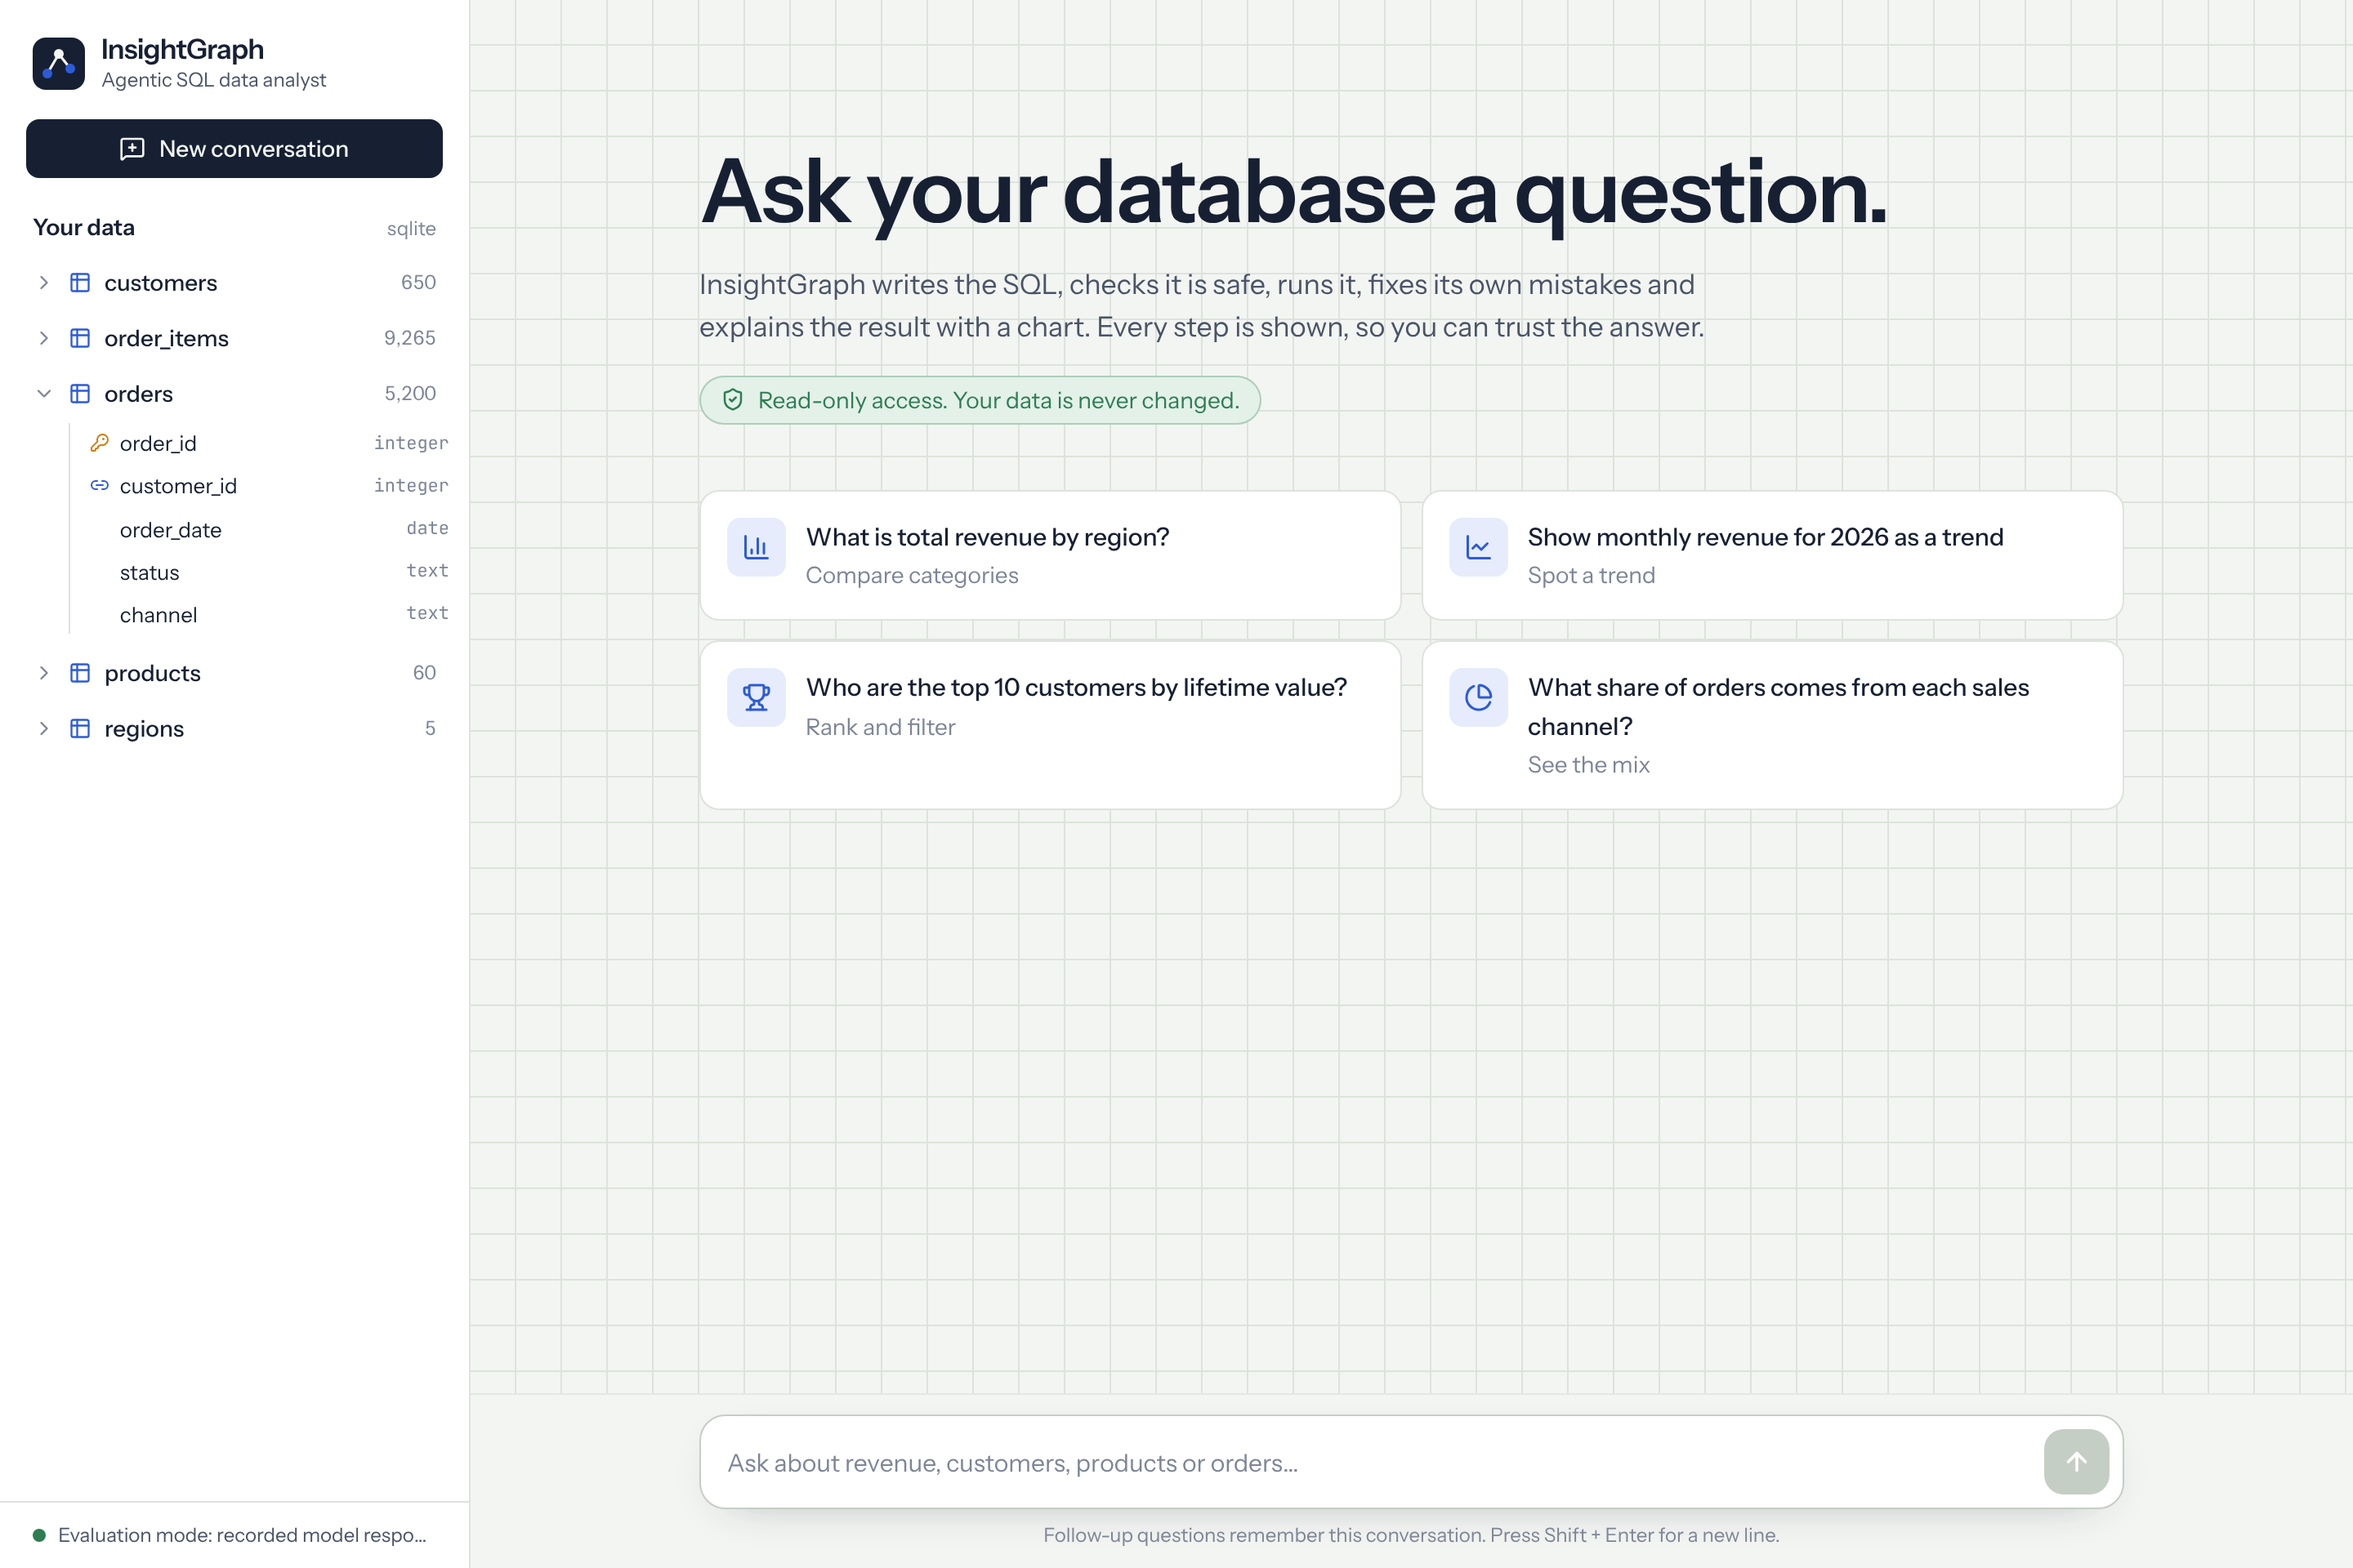
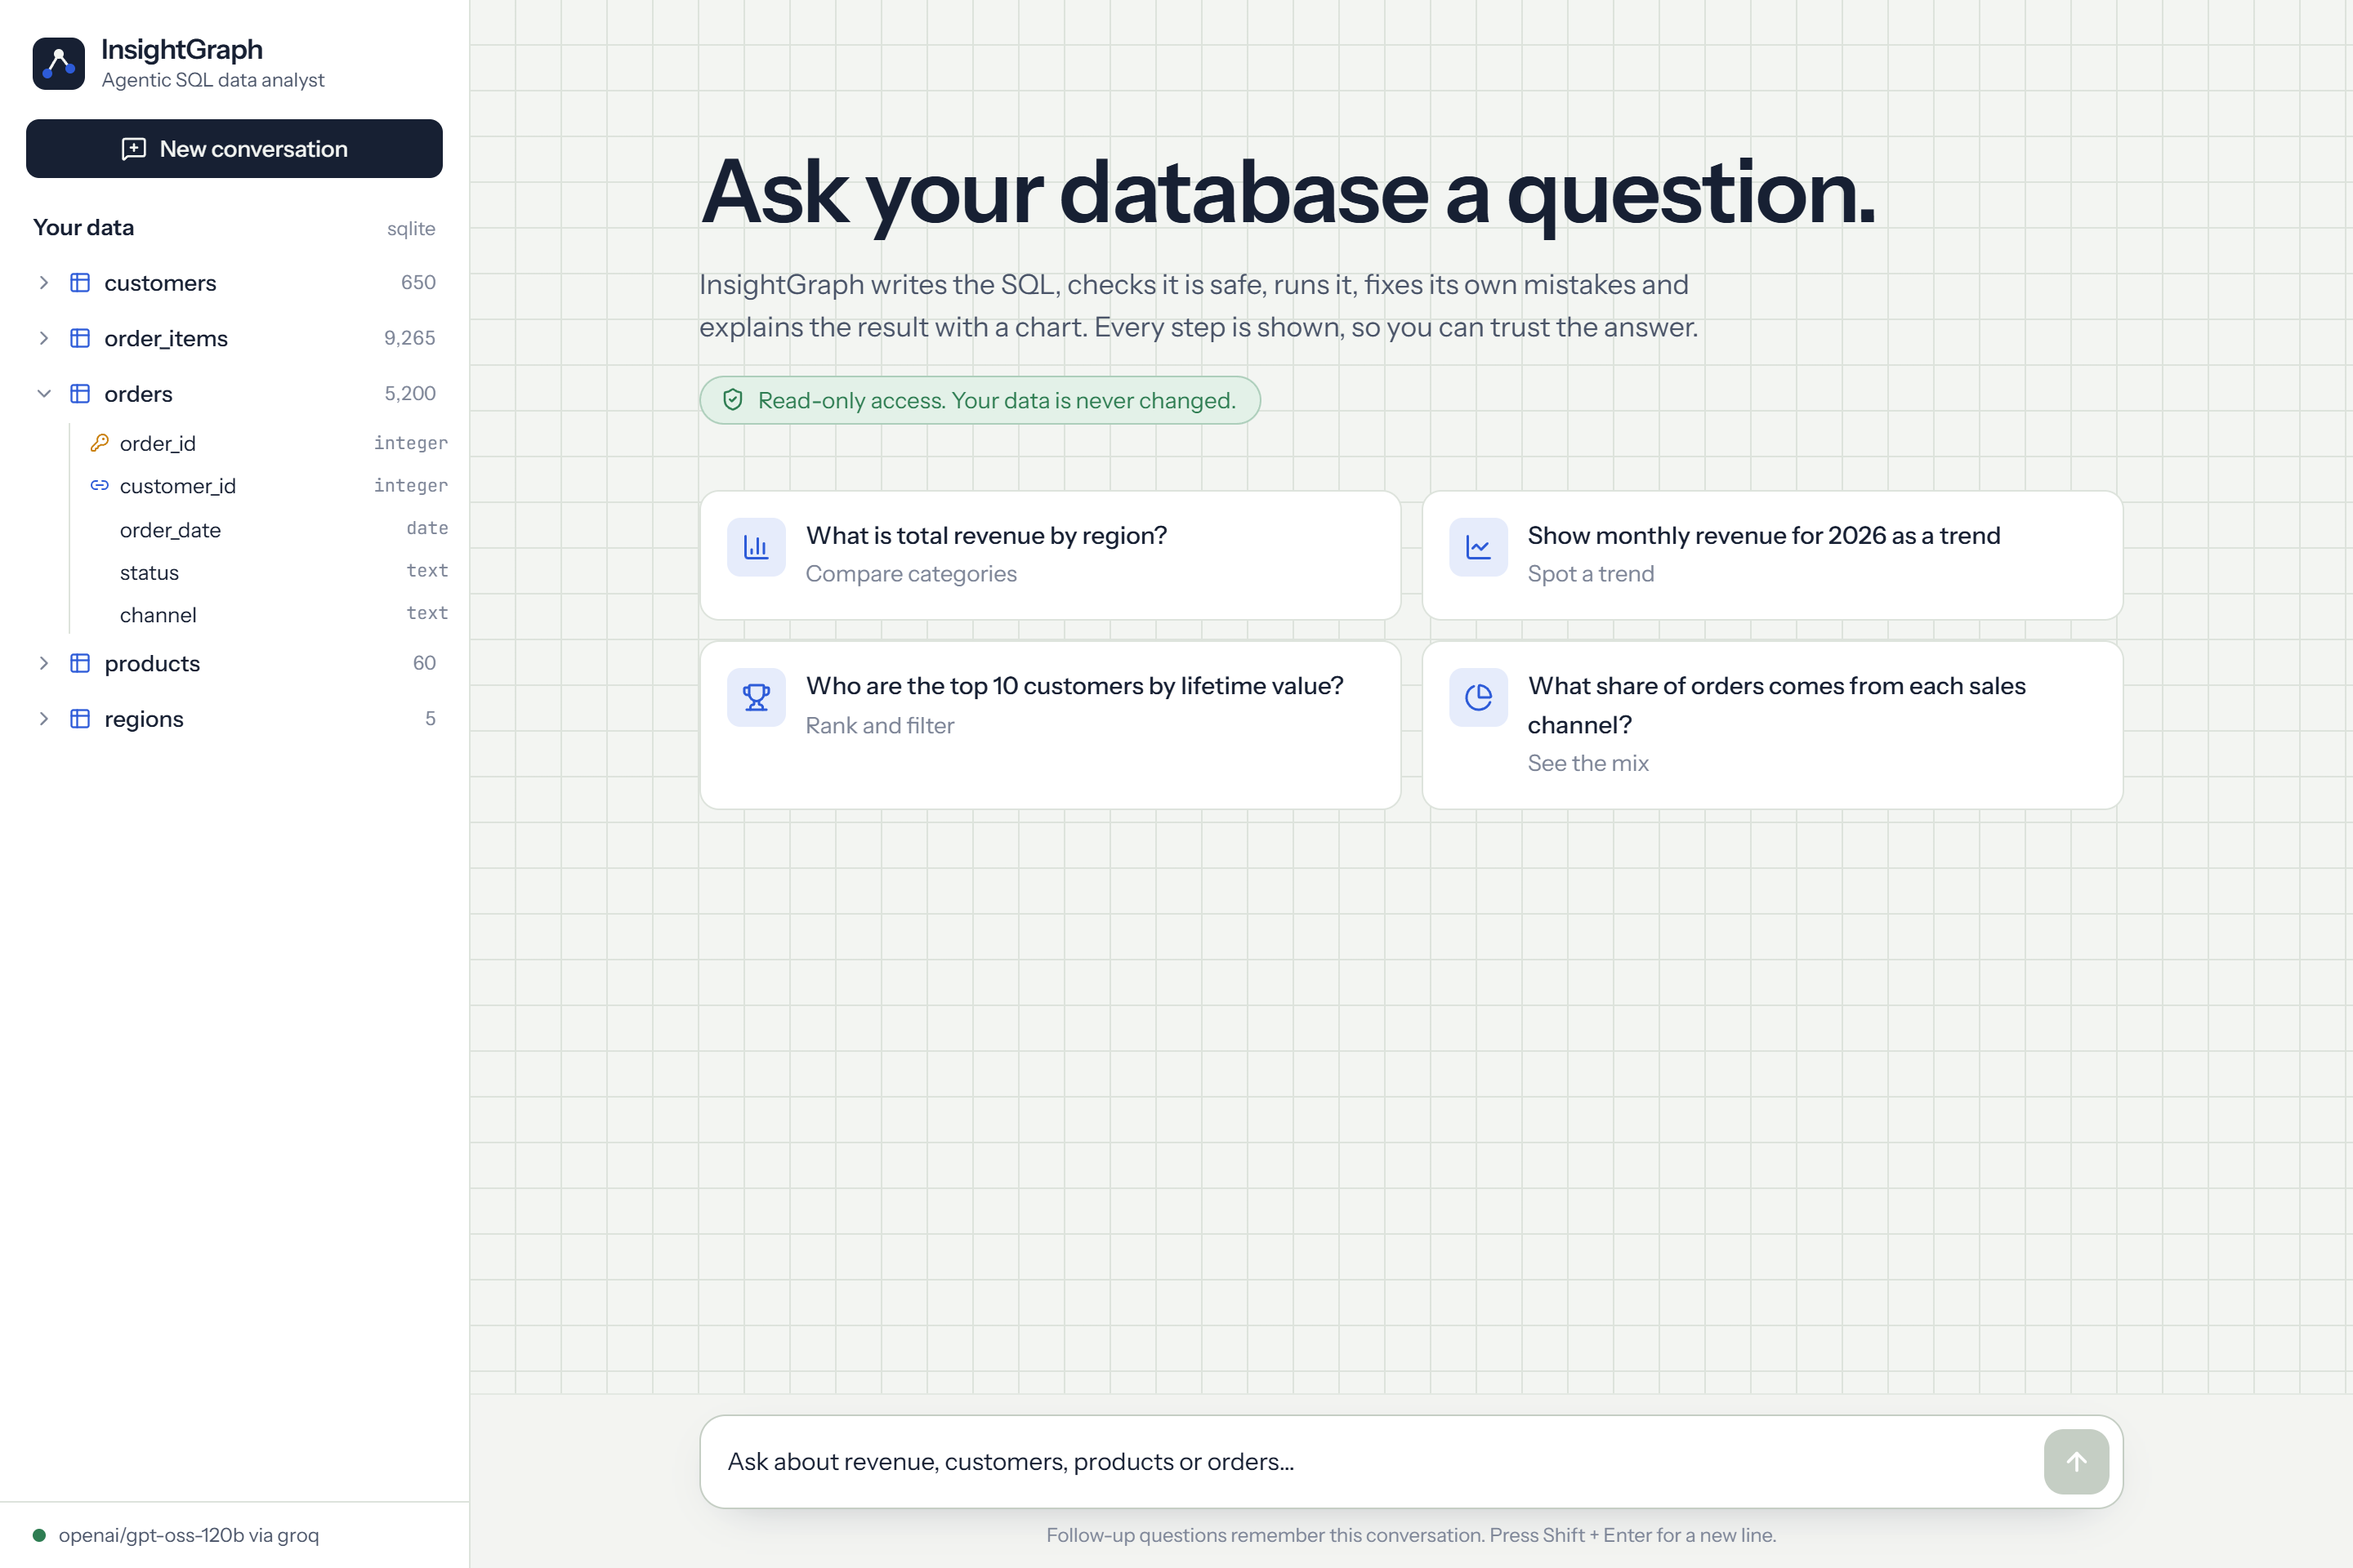
Replace screenshots with captures from the live app (Groq gpt-oss-120b)
- 14 screenshots of real answers, including a live self-correction
- README, UI/UX spec, test cases and module reports updated

diff --git a/README.md b/README.md
@@ -256,31 +256,31 @@ Rendered PNG versions of all diagrams, including a deployment diagram and the gr
 
 ## Screenshots
 
-These screens were captured from the full application running the golden evaluation scenarios in [`backend/tests/fixtures`](backend/tests/fixtures) against the sample database. The SQL, row counts and timings shown are real query results.
+All screens below were captured from the running application answering live questions with Groq (`openai/gpt-oss-120b`) against the sample database. Every answer, SQL query, chart and timing is real output.
 
 | Home | Answer with chart |
 |---|---|
 | ![Home](docs/screenshots/01-home.png) | ![Revenue by region](docs/screenshots/02b-revenue-answer-card.png) |
 
-| Self-correction (reasoning trace) | Self-correction (how it was built) |
+| Self-correction: the first SQL failed and the agent fixed it | Follow-up question using conversation memory |
 |---|---|
-| ![Trace](docs/screenshots/03-self-correction-trace.png) | ![Details](docs/screenshots/03b-self-correction-details.png) |
+| ![Self-correction trace](docs/screenshots/03-self-correction-trace.png) | ![Follow-up](docs/screenshots/06-follow-up-memory.png) |
 
-| Time-series trend | Generated SQL with grouped bars |
+| Year-over-year comparison with generated SQL | Monthly trend |
 |---|---|
-| ![Monthly trend](docs/screenshots/04-monthly-trend.png) | ![SQL](docs/screenshots/05-generated-sql.png) |
+| ![Q3 comparison and SQL](docs/screenshots/05-q3-comparison-sql.png) | ![Monthly trend](docs/screenshots/04-monthly-trend.png) |
 
-| Follow-up with memory | Destructive request blocked |
+| Ranking with full results table | Margin analysis (self-corrected) |
 |---|---|
-| ![Follow-up](docs/screenshots/06-follow-up-memory.png) | ![Safety](docs/screenshots/07-safety-guard.png) |
+| ![Top customers](docs/screenshots/09-top-customers.png) | ![Gross margin](docs/screenshots/10-gross-margin.png) |
 
-| Share of total | Margin analysis |
+| Share of orders by channel | Free-form question: return rate by region |
 |---|---|
-| ![Channel share](docs/screenshots/08-channel-share.png) | ![Gross margin](docs/screenshots/09-gross-margin-table.png) |
+| ![Channel share](docs/screenshots/08-channel-share.png) | ![Return rate](docs/screenshots/11-return-rate.png) |
 
-| Mobile home | Mobile answer |
+| Destructive request blocked | Mobile |
 |---|---|
-| <img src="docs/screenshots/10-mobile-home.png" width="280"> | <img src="docs/screenshots/11-mobile-answer.png" width="280"> |
+| ![Safety guard](docs/screenshots/07-safety-guard.png) | <img src="docs/screenshots/12-mobile-home.png" width="230"> <img src="docs/screenshots/13-mobile-answer.png" width="230"> |
 
 ## Tech stack
 

diff --git a/docs/05-ui-ux-design.md b/docs/05-ui-ux-design.md
@@ -114,11 +114,13 @@ Fonts are self-hosted through Fontsource, so the app works offline and inside pr
 |--------|------|
 | Home / empty state | `screenshots/01-home.png` |
 | Answer with bar chart | `screenshots/02-revenue-by-region.png`, `02b-revenue-answer-card.png` |
-| Self-correction trace and details | `screenshots/03-self-correction-trace.png`, `03b-self-correction-details.png` |
-| Time-series line chart | `screenshots/04-monthly-trend.png` |
-| SQL tab with grouped bars | `screenshots/05-generated-sql.png` |
-| Follow-up with memory and KPI tiles | `screenshots/06-follow-up-memory.png` |
+| Self-correction with reasoning trace and details | `screenshots/03-self-correction-trace.png` |
+| Monthly trend | `screenshots/04-monthly-trend.png` |
+| SQL tab with grouped bars (year-over-year) | `screenshots/05-q3-comparison-sql.png` |
+| Follow-up with memory and KPI tile | `screenshots/06-follow-up-memory.png` |
 | Blocked destructive request | `screenshots/07-safety-guard.png` |
-| Donut chart | `screenshots/08-channel-share.png` |
-| Percentage metrics | `screenshots/09-gross-margin-table.png` |
-| Mobile | `screenshots/10-mobile-home.png`, `11-mobile-answer.png` |
+| Share of orders by channel | `screenshots/08-channel-share.png` |
+| Ranking with full results table | `screenshots/09-top-customers.png` |
+| Percentage metrics (self-corrected) | `screenshots/10-gross-margin.png` |
+| Free-form question | `screenshots/11-return-rate.png` |
+| Mobile | `screenshots/12-mobile-home.png`, `13-mobile-answer.png` |

diff --git a/reports/09-frontend.md b/reports/09-frontend.md
@@ -89,7 +89,7 @@ An analyst workspace where a business user asks questions, watches the agent wor
 | E2E-05 | Copy SQL puts the query on the clipboard; the button changes to "Copied" | ✅ Pass |
 | E2E-06 | API unreachable → readable error inside the card | ✅ Pass |
 | E2E-07 | Desktop layout at 1440 px: sidebar, schema explorer, answer cards | ✅ Pass (see `docs/screenshots`) |
-| E2E-08 | Mobile layout at 390 px: drawer menu, chart and scrollable table in the answer card | ✅ Pass (see `10-mobile-home.png`, `11-mobile-answer.png`) |
+| E2E-08 | Mobile layout at 390 px: drawer menu, chart and scrollable table in the answer card | ✅ Pass (see `12-mobile-home.png`, `13-mobile-answer.png`) |
 
 | FE-18 | `chartData` › pivots long results | `(region, year, revenue)` → one series per year | ✅ Pass |
 | FE-19 | `chartData` › keeps wide results | Wide rows unchanged | ✅ Pass |

diff --git a/reports/06-langgraph-agent.md b/reports/06-langgraph-agent.md
@@ -67,7 +67,9 @@ Question: *"Who are the top 10 customers by lifetime value?"*
 4. `generate_sql` (attempt 2) sees the error, uses `c.name` and adds segment and region.
 5. The query validates and returns 10 rows; `analyze_results` writes the answer and a bar chart.
 
-The UI shows "Self-corrected 1 time" and lists the error under "How it was built" (see `docs/screenshots/03b-self-correction-details.png`).
+The UI shows "Self-corrected 1 time" and lists the error under "How it was built".
+
+The same loop was observed during live testing with Groq. For "What share of orders comes from each sales channel?", the first query failed with `near "to": syntax error`. The agent rewrote it and answered correctly 0.8 s later (see `docs/screenshots/03-self-correction-trace.png`).
 
 ## 3. How it was built
 

diff --git a/docs/04-test-cases.md b/docs/04-test-cases.md
@@ -92,7 +92,7 @@ ruff check .
 | UI-03 | Follow-up shows "Interpreted as …" | Pass, `screenshots/06-follow-up-memory.png` |
 | UI-04 | Results table sorts by column and downloads CSV | Pass |
 | UI-05 | Copy SQL button copies the query | Pass |
-| UI-06 | Layout works at 390 px (mobile) with a collapsible schema drawer | Pass, `screenshots/10-mobile-home.png`, `11-mobile-answer.png` |
+| UI-06 | Layout works at 390 px (mobile) with a collapsible schema drawer | Pass, `screenshots/12-mobile-home.png`, `13-mobile-answer.png` |
 | UI-07 | Keyboard: Enter sends, Shift+Enter adds a new line, visible focus rings | Pass |
 | UI-08 | API down: a clear error message is shown in the answer card | Pass |
 
